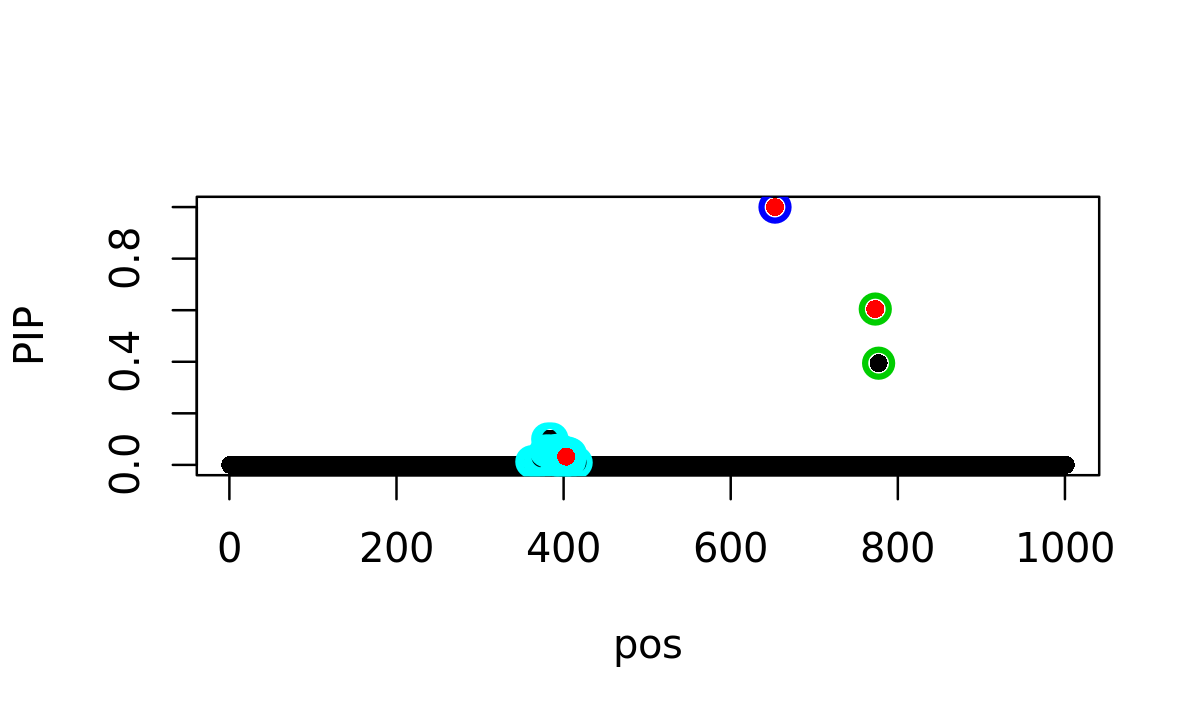
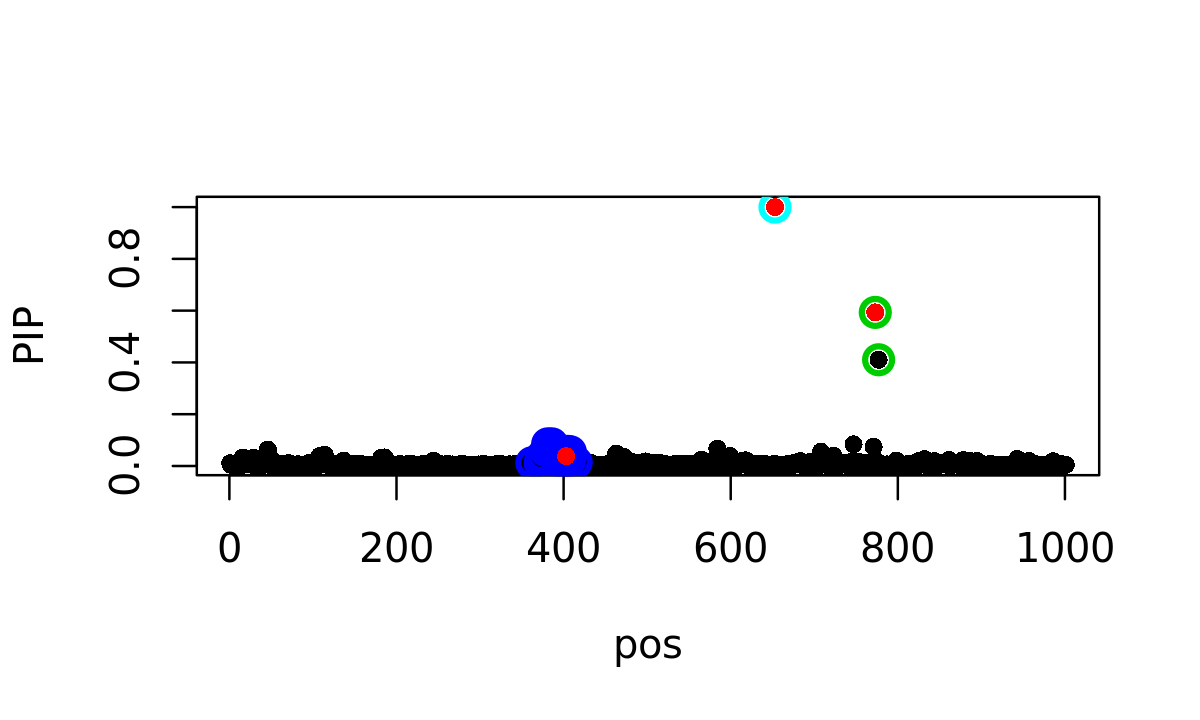
Update description to prior specifications in vignettes

diff --git a/docs/articles/finemapping.html b/docs/articles/finemapping.html
@@ -29,7 +29,7 @@
       </button>
       <span class="navbar-brand">
         <a class="navbar-link" href="../index.html">susieR</a>
-        <span class="label label-default" data-toggle="tooltip" data-placement="bottom" title="Released package">0.7.1</span>
+        <span class="label label-default" data-toggle="tooltip" data-placement="bottom" title="Released package">0.7.1.485</span>
       </span>
     </div>
 
@@ -120,47 +120,58 @@
 <a href="#fine-mapping-with-susier" class="anchor"></a>Fine-mapping with <code>susieR</code>
 </h2>
 <p>For starters, we assume there are at most 10 causal variables, i.e., set <code>L = 10</code>, although SuSiE is robust to the choice of <code>L</code>.</p>
-<p>We set SuSiE prior variance to 0.1, and update residual variance in the variational algorithm that fits SuSiE model. The <code>susieR</code> function call is:</p>
+<p>Notice that by default SuSiE estimates prior effect size from data. For fine-mapping applications, however, we often have some knowledge of SuSiE prior effect size since it is parameterized as percentage of variance explained. Here for this eQTL fine-mapping application we set SuSiE prior variance to 0.1, and update residual variance in the variational algorithm that fits SuSiE model. The <code>susieR</code> function call is:</p>
 <div class="sourceCode" id="cb8"><pre class="sourceCode r"><code class="sourceCode r"><a class="sourceLine" id="cb8-1" data-line-number="1">fitted &lt;-<span class="st"> </span><span class="kw"><a href="../reference/susie.html">susie</a></span>(data<span class="op">$</span>X, data<span class="op">$</span>Y[,<span class="dv">1</span>],</a>
 <a class="sourceLine" id="cb8-2" data-line-number="2">                <span class="dt">L =</span> <span class="dv">10</span>,</a>
 <a class="sourceLine" id="cb8-3" data-line-number="3">                <span class="dt">estimate_residual_variance =</span> <span class="ot">TRUE</span>, </a>
-<a class="sourceLine" id="cb8-4" data-line-number="4">                <span class="dt">scaled_prior_variance =</span> <span class="fl">0.1</span>,</a>
-<a class="sourceLine" id="cb8-5" data-line-number="5">                <span class="dt">verbose =</span> <span class="ot">TRUE</span>)</a>
-<a class="sourceLine" id="cb8-6" data-line-number="6"><span class="co"># [1] "objective:-1380.57545244099"</span></a>
-<a class="sourceLine" id="cb8-7" data-line-number="7"><span class="co"># [1] "objective:-1377.48660916964"</span></a>
-<a class="sourceLine" id="cb8-8" data-line-number="8"><span class="co"># [1] "objective:-1375.85777212489"</span></a>
-<a class="sourceLine" id="cb8-9" data-line-number="9"><span class="co"># [1] "objective:-1375.80892306441"</span></a>
-<a class="sourceLine" id="cb8-10" data-line-number="10"><span class="co"># [1] "objective:-1370.33949333525"</span></a>
-<a class="sourceLine" id="cb8-11" data-line-number="11"><span class="co"># [1] "objective:-1370.19677277143"</span></a>
-<a class="sourceLine" id="cb8-12" data-line-number="12"><span class="co"># [1] "objective:-1370.10919739199"</span></a>
-<a class="sourceLine" id="cb8-13" data-line-number="13"><span class="co"># [1] "objective:-1370.10918017466"</span></a>
-<a class="sourceLine" id="cb8-14" data-line-number="14"><span class="co"># [1] "objective:-1370.10901872279"</span></a>
-<a class="sourceLine" id="cb8-15" data-line-number="15"><span class="co"># [1] "objective:-1370.1090187169"</span></a></code></pre></div>
+<a class="sourceLine" id="cb8-4" data-line-number="4">                <span class="dt">estimate_prior_variance =</span> <span class="ot">FALSE</span>,</a>
+<a class="sourceLine" id="cb8-5" data-line-number="5">                <span class="dt">scaled_prior_variance =</span> <span class="fl">0.1</span>,</a>
+<a class="sourceLine" id="cb8-6" data-line-number="6">                <span class="dt">verbose =</span> <span class="ot">TRUE</span>)</a>
+<a class="sourceLine" id="cb8-7" data-line-number="7"><span class="co"># [1] "objective:-1392.42460921237"</span></a>
+<a class="sourceLine" id="cb8-8" data-line-number="8"><span class="co"># [1] "objective:-1388.98662572569"</span></a>
+<a class="sourceLine" id="cb8-9" data-line-number="9"><span class="co"># [1] "objective:-1387.87893344487"</span></a>
+<a class="sourceLine" id="cb8-10" data-line-number="10"><span class="co"># [1] "objective:-1387.87158194815"</span></a>
+<a class="sourceLine" id="cb8-11" data-line-number="11"><span class="co"># [1] "objective:-1387.73100740437"</span></a>
+<a class="sourceLine" id="cb8-12" data-line-number="12"><span class="co"># [1] "objective:-1387.73099852765"</span></a>
+<a class="sourceLine" id="cb8-13" data-line-number="13"><span class="co"># [1] "objective:-1387.67616609042"</span></a>
+<a class="sourceLine" id="cb8-14" data-line-number="14"><span class="co"># [1] "objective:-1387.67615783405"</span></a>
+<a class="sourceLine" id="cb8-15" data-line-number="15"><span class="co"># [1] "objective:-1386.37718431774"</span></a>
+<a class="sourceLine" id="cb8-16" data-line-number="16"><span class="co"># [1] "objective:-1386.3640270645"</span></a>
+<a class="sourceLine" id="cb8-17" data-line-number="17"><span class="co"># [1] "objective:-1381.99570801801"</span></a>
+<a class="sourceLine" id="cb8-18" data-line-number="18"><span class="co"># [1] "objective:-1381.86807518114"</span></a>
+<a class="sourceLine" id="cb8-19" data-line-number="19"><span class="co"># [1] "objective:-1381.18590761065"</span></a>
+<a class="sourceLine" id="cb8-20" data-line-number="20"><span class="co"># [1] "objective:-1381.18342754333"</span></a>
+<a class="sourceLine" id="cb8-21" data-line-number="21"><span class="co"># [1] "objective:-1381.13344267982"</span></a>
+<a class="sourceLine" id="cb8-22" data-line-number="22"><span class="co"># [1] "objective:-1381.13343270768"</span></a>
+<a class="sourceLine" id="cb8-23" data-line-number="23"><span class="co"># [1] "objective:-1381.13113705137"</span></a>
+<a class="sourceLine" id="cb8-24" data-line-number="24"><span class="co"># [1] "objective:-1381.1311369139"</span></a>
+<a class="sourceLine" id="cb8-25" data-line-number="25"><span class="co"># [1] "objective:-1381.13106293456"</span></a>
+<a class="sourceLine" id="cb8-26" data-line-number="26"><span class="co"># [1] "objective:-1381.13106291271"</span></a></code></pre></div>
 <div id="credible-sets" class="section level3">
 <h3 class="hasAnchor">
 <a href="#credible-sets" class="anchor"></a>Credible sets</h3>
 <p>By default, we output 95% credible set:</p>
 <div class="sourceCode" id="cb9"><pre class="sourceCode r"><code class="sourceCode r"><a class="sourceLine" id="cb9-1" data-line-number="1"><span class="kw">print</span>(fitted<span class="op">$</span>sets)</a>
 <a class="sourceLine" id="cb9-2" data-line-number="2"><span class="co"># $cs</span></a>
-<a class="sourceLine" id="cb9-3" data-line-number="3"><span class="co"># $cs$L2</span></a>
+<a class="sourceLine" id="cb9-3" data-line-number="3"><span class="co"># $cs$L3</span></a>
 <a class="sourceLine" id="cb9-4" data-line-number="4"><span class="co"># [1] 653</span></a>
 <a class="sourceLine" id="cb9-5" data-line-number="5"><span class="co"># </span></a>
 <a class="sourceLine" id="cb9-6" data-line-number="6"><span class="co"># $cs$L1</span></a>
 <a class="sourceLine" id="cb9-7" data-line-number="7"><span class="co"># [1] 773 777</span></a>
 <a class="sourceLine" id="cb9-8" data-line-number="8"><span class="co"># </span></a>
-<a class="sourceLine" id="cb9-9" data-line-number="9"><span class="co"># $cs$L3</span></a>
-<a class="sourceLine" id="cb9-10" data-line-number="10"><span class="co">#  [1] 362 365 372 373 374 379 381 383 384 386 387 388 389 391 392 396 397</span></a>
-<a class="sourceLine" id="cb9-11" data-line-number="11"><span class="co"># [18] 398 399 400 401 403 404 405 407 408 415</span></a>
+<a class="sourceLine" id="cb9-9" data-line-number="9"><span class="co"># $cs$L2</span></a>
+<a class="sourceLine" id="cb9-10" data-line-number="10"><span class="co">#  [1] 362 372 373 374 379 381 383 384 386 387 388 389 391 392 396 397 398</span></a>
+<a class="sourceLine" id="cb9-11" data-line-number="11"><span class="co"># [18] 399 400 401 403 404 405 407 408 415</span></a>
 <a class="sourceLine" id="cb9-12" data-line-number="12"><span class="co"># </span></a>
 <a class="sourceLine" id="cb9-13" data-line-number="13"><span class="co"># </span></a>
 <a class="sourceLine" id="cb9-14" data-line-number="14"><span class="co"># $purity</span></a>
 <a class="sourceLine" id="cb9-15" data-line-number="15"><span class="co">#    min.abs.corr mean.abs.corr median.abs.corr</span></a>
-<a class="sourceLine" id="cb9-16" data-line-number="16"><span class="co"># L2    1.0000000     1.0000000       1.0000000</span></a>
+<a class="sourceLine" id="cb9-16" data-line-number="16"><span class="co"># L3    1.0000000     1.0000000       1.0000000</span></a>
 <a class="sourceLine" id="cb9-17" data-line-number="17"><span class="co"># L1    0.9815726     0.9907863       0.9907863</span></a>
-<a class="sourceLine" id="cb9-18" data-line-number="18"><span class="co"># L3    0.8686309     0.9653503       0.9739578</span></a>
+<a class="sourceLine" id="cb9-18" data-line-number="18"><span class="co"># L2    0.8686309     0.9673674       0.9756251</span></a>
 <a class="sourceLine" id="cb9-19" data-line-number="19"><span class="co"># </span></a>
 <a class="sourceLine" id="cb9-20" data-line-number="20"><span class="co"># $cs_index</span></a>
-<a class="sourceLine" id="cb9-21" data-line-number="21"><span class="co"># [1] 2 1 3</span></a>
+<a class="sourceLine" id="cb9-21" data-line-number="21"><span class="co"># [1] 3 1 2</span></a>
 <a class="sourceLine" id="cb9-22" data-line-number="22"><span class="co"># </span></a>
 <a class="sourceLine" id="cb9-23" data-line-number="23"><span class="co"># $coverage</span></a>
 <a class="sourceLine" id="cb9-24" data-line-number="24"><span class="co"># [1] 0.95</span></a></code></pre></div>
@@ -172,25 +183,25 @@
 <a class="sourceLine" id="cb10-4" data-line-number="4">                     <span class="dt">min_abs_corr =</span> <span class="fl">0.1</span>)</a></code></pre></div>
 <div class="sourceCode" id="cb11"><pre class="sourceCode r"><code class="sourceCode r"><a class="sourceLine" id="cb11-1" data-line-number="1"><span class="kw">print</span>(sets)</a>
 <a class="sourceLine" id="cb11-2" data-line-number="2"><span class="co"># $cs</span></a>
-<a class="sourceLine" id="cb11-3" data-line-number="3"><span class="co"># $cs$L2</span></a>
+<a class="sourceLine" id="cb11-3" data-line-number="3"><span class="co"># $cs$L3</span></a>
 <a class="sourceLine" id="cb11-4" data-line-number="4"><span class="co"># [1] 653</span></a>
 <a class="sourceLine" id="cb11-5" data-line-number="5"><span class="co"># </span></a>
 <a class="sourceLine" id="cb11-6" data-line-number="6"><span class="co"># $cs$L1</span></a>
 <a class="sourceLine" id="cb11-7" data-line-number="7"><span class="co"># [1] 773 777</span></a>
 <a class="sourceLine" id="cb11-8" data-line-number="8"><span class="co"># </span></a>
-<a class="sourceLine" id="cb11-9" data-line-number="9"><span class="co"># $cs$L3</span></a>
-<a class="sourceLine" id="cb11-10" data-line-number="10"><span class="co">#  [1] 373 374 379 381 383 384 386 387 388 389 391 392 396 398 399 400 401</span></a>
-<a class="sourceLine" id="cb11-11" data-line-number="11"><span class="co"># [18] 403 404 405 407 408</span></a>
+<a class="sourceLine" id="cb11-9" data-line-number="9"><span class="co"># $cs$L2</span></a>
+<a class="sourceLine" id="cb11-10" data-line-number="10"><span class="co">#  [1] 373 374 379 381 383 384 386 387 388 389 391 392 396 399 400 401 403</span></a>
+<a class="sourceLine" id="cb11-11" data-line-number="11"><span class="co"># [18] 404 405 407 408</span></a>
 <a class="sourceLine" id="cb11-12" data-line-number="12"><span class="co"># </span></a>
 <a class="sourceLine" id="cb11-13" data-line-number="13"><span class="co"># </span></a>
 <a class="sourceLine" id="cb11-14" data-line-number="14"><span class="co"># $purity</span></a>
 <a class="sourceLine" id="cb11-15" data-line-number="15"><span class="co">#    min.abs.corr mean.abs.corr median.abs.corr</span></a>
-<a class="sourceLine" id="cb11-16" data-line-number="16"><span class="co"># L2    1.0000000     1.0000000       1.0000000</span></a>
+<a class="sourceLine" id="cb11-16" data-line-number="16"><span class="co"># L3    1.0000000     1.0000000       1.0000000</span></a>
 <a class="sourceLine" id="cb11-17" data-line-number="17"><span class="co"># L1    0.9815726     0.9907863       0.9907863</span></a>
-<a class="sourceLine" id="cb11-18" data-line-number="18"><span class="co"># L3    0.9119572     0.9738724       0.9768163</span></a>
+<a class="sourceLine" id="cb11-18" data-line-number="18"><span class="co"># L2    0.9119572     0.9744588       0.9779763</span></a>
 <a class="sourceLine" id="cb11-19" data-line-number="19"><span class="co"># </span></a>
 <a class="sourceLine" id="cb11-20" data-line-number="20"><span class="co"># $cs_index</span></a>
-<a class="sourceLine" id="cb11-21" data-line-number="21"><span class="co"># [1] 2 1 3</span></a>
+<a class="sourceLine" id="cb11-21" data-line-number="21"><span class="co"># [1] 3 1 2</span></a>
 <a class="sourceLine" id="cb11-22" data-line-number="22"><span class="co"># </span></a>
 <a class="sourceLine" id="cb11-23" data-line-number="23"><span class="co"># $coverage</span></a>
 <a class="sourceLine" id="cb11-24" data-line-number="24"><span class="co"># [1] 0.9</span></a></code></pre></div>
@@ -210,34 +221,33 @@
 <a class="sourceLine" id="cb13-2" data-line-number="2">z3 &lt;-<span class="st"> </span><span class="kw">cbind</span>(i,z_scores[i],fitted<span class="op">$</span>pip[i])</a>
 <a class="sourceLine" id="cb13-3" data-line-number="3"><span class="kw">colnames</span>(z3) &lt;-<span class="st"> </span><span class="kw">c</span>(<span class="st">'position'</span>, <span class="st">'z-score'</span>, <span class="st">'PIP'</span>)</a>
 <a class="sourceLine" id="cb13-4" data-line-number="4">z3[<span class="kw">order</span>(z3[,<span class="dv">2</span>], <span class="dt">decreasing =</span> <span class="ot">TRUE</span>),]</a>
-<a class="sourceLine" id="cb13-5" data-line-number="5"><span class="co">#       position  z-score         PIP</span></a>
-<a class="sourceLine" id="cb13-6" data-line-number="6"><span class="co">#  [1,]      396 5.189811 0.056704331</span></a>
-<a class="sourceLine" id="cb13-7" data-line-number="7"><span class="co">#  [2,]      381 5.164794 0.100360242</span></a>
-<a class="sourceLine" id="cb13-8" data-line-number="8"><span class="co">#  [3,]      386 5.164794 0.100360242</span></a>
-<a class="sourceLine" id="cb13-9" data-line-number="9"><span class="co">#  [4,]      379 5.077563 0.054179507</span></a>
-<a class="sourceLine" id="cb13-10" data-line-number="10"><span class="co">#  [5,]      391 5.068388 0.055952118</span></a>
-<a class="sourceLine" id="cb13-11" data-line-number="11"><span class="co">#  [6,]      383 5.057053 0.052896918</span></a>
-<a class="sourceLine" id="cb13-12" data-line-number="12"><span class="co">#  [7,]      384 5.057053 0.052896918</span></a>
-<a class="sourceLine" id="cb13-13" data-line-number="13"><span class="co">#  [8,]      389 5.052519 0.042161265</span></a>
-<a class="sourceLine" id="cb13-14" data-line-number="14"><span class="co">#  [9,]      405 5.039617 0.045761975</span></a>
-<a class="sourceLine" id="cb13-15" data-line-number="15"><span class="co"># [10,]      403 5.035949 0.031992848</span></a>
-<a class="sourceLine" id="cb13-16" data-line-number="16"><span class="co"># [11,]      387 5.013526 0.041041505</span></a>
-<a class="sourceLine" id="cb13-17" data-line-number="17"><span class="co"># [12,]      388 4.997955 0.039650079</span></a>
-<a class="sourceLine" id="cb13-18" data-line-number="18"><span class="co"># [13,]      408 4.994865 0.041551961</span></a>
-<a class="sourceLine" id="cb13-19" data-line-number="19"><span class="co"># [14,]      404 4.954407 0.032013339</span></a>
-<a class="sourceLine" id="cb13-20" data-line-number="20"><span class="co"># [15,]      374 4.948060 0.030571484</span></a>
-<a class="sourceLine" id="cb13-21" data-line-number="21"><span class="co"># [16,]      373 4.934410 0.023577221</span></a>
-<a class="sourceLine" id="cb13-22" data-line-number="22"><span class="co"># [17,]      362 4.894243 0.012145481</span></a>
-<a class="sourceLine" id="cb13-23" data-line-number="23"><span class="co"># [18,]      399 4.860780 0.026454056</span></a>
-<a class="sourceLine" id="cb13-24" data-line-number="24"><span class="co"># [19,]      392 4.856384 0.019741011</span></a>
-<a class="sourceLine" id="cb13-25" data-line-number="25"><span class="co"># [20,]      407 4.849285 0.014699313</span></a>
-<a class="sourceLine" id="cb13-26" data-line-number="26"><span class="co"># [21,]      400 4.827361 0.021659443</span></a>
-<a class="sourceLine" id="cb13-27" data-line-number="27"><span class="co"># [22,]      365 4.782770 0.006263425</span></a>
-<a class="sourceLine" id="cb13-28" data-line-number="28"><span class="co"># [23,]      398 4.751205 0.012907848</span></a>
-<a class="sourceLine" id="cb13-29" data-line-number="29"><span class="co"># [24,]      401 4.723184 0.014858460</span></a>
-<a class="sourceLine" id="cb13-30" data-line-number="30"><span class="co"># [25,]      397 4.716886 0.008690915</span></a>
-<a class="sourceLine" id="cb13-31" data-line-number="31"><span class="co"># [26,]      415 4.663208 0.009003129</span></a>
-<a class="sourceLine" id="cb13-32" data-line-number="32"><span class="co"># [27,]      372 4.581560 0.005886458</span></a></code></pre></div>
+<a class="sourceLine" id="cb13-5" data-line-number="5"><span class="co">#       position  z-score        PIP</span></a>
+<a class="sourceLine" id="cb13-6" data-line-number="6"><span class="co">#  [1,]      396 5.189811 0.06026797</span></a>
+<a class="sourceLine" id="cb13-7" data-line-number="7"><span class="co">#  [2,]      381 5.164794 0.08444210</span></a>
+<a class="sourceLine" id="cb13-8" data-line-number="8"><span class="co">#  [3,]      386 5.164794 0.08444210</span></a>
+<a class="sourceLine" id="cb13-9" data-line-number="9"><span class="co">#  [4,]      379 5.077563 0.05804100</span></a>
+<a class="sourceLine" id="cb13-10" data-line-number="10"><span class="co">#  [5,]      391 5.068388 0.06299894</span></a>
+<a class="sourceLine" id="cb13-11" data-line-number="11"><span class="co">#  [6,]      383 5.057053 0.06048718</span></a>
+<a class="sourceLine" id="cb13-12" data-line-number="12"><span class="co">#  [7,]      384 5.057053 0.06048718</span></a>
+<a class="sourceLine" id="cb13-13" data-line-number="13"><span class="co">#  [8,]      389 5.052519 0.04925977</span></a>
+<a class="sourceLine" id="cb13-14" data-line-number="14"><span class="co">#  [9,]      405 5.039617 0.05629383</span></a>
+<a class="sourceLine" id="cb13-15" data-line-number="15"><span class="co"># [10,]      403 5.035949 0.03808209</span></a>
+<a class="sourceLine" id="cb13-16" data-line-number="16"><span class="co"># [11,]      387 5.013526 0.04831886</span></a>
+<a class="sourceLine" id="cb13-17" data-line-number="17"><span class="co"># [12,]      388 4.997955 0.04696986</span></a>
+<a class="sourceLine" id="cb13-18" data-line-number="18"><span class="co"># [13,]      408 4.994865 0.05477586</span></a>
+<a class="sourceLine" id="cb13-19" data-line-number="19"><span class="co"># [14,]      404 4.954407 0.04024608</span></a>
+<a class="sourceLine" id="cb13-20" data-line-number="20"><span class="co"># [15,]      374 4.948060 0.03589437</span></a>
+<a class="sourceLine" id="cb13-21" data-line-number="21"><span class="co"># [16,]      373 4.934410 0.02832642</span></a>
+<a class="sourceLine" id="cb13-22" data-line-number="22"><span class="co"># [17,]      362 4.894243 0.01244577</span></a>
+<a class="sourceLine" id="cb13-23" data-line-number="23"><span class="co"># [18,]      399 4.860780 0.03073966</span></a>
+<a class="sourceLine" id="cb13-24" data-line-number="24"><span class="co"># [19,]      392 4.856384 0.02490617</span></a>
+<a class="sourceLine" id="cb13-25" data-line-number="25"><span class="co"># [20,]      407 4.849285 0.02139881</span></a>
+<a class="sourceLine" id="cb13-26" data-line-number="26"><span class="co"># [21,]      400 4.827361 0.02610013</span></a>
+<a class="sourceLine" id="cb13-27" data-line-number="27"><span class="co"># [22,]      398 4.751205 0.01761845</span></a>
+<a class="sourceLine" id="cb13-28" data-line-number="28"><span class="co"># [23,]      401 4.723184 0.02014360</span></a>
+<a class="sourceLine" id="cb13-29" data-line-number="29"><span class="co"># [24,]      397 4.716886 0.01240547</span></a>
+<a class="sourceLine" id="cb13-30" data-line-number="30"><span class="co"># [25,]      415 4.663208 0.01437857</span></a>
+<a class="sourceLine" id="cb13-31" data-line-number="31"><span class="co"># [26,]      372 4.581560 0.01032276</span></a></code></pre></div>
 </div>
 <div id="choice-of-priors" class="section level3">
 <h3 class="hasAnchor">
@@ -246,50 +256,60 @@
 <div class="sourceCode" id="cb14"><pre class="sourceCode r"><code class="sourceCode r"><a class="sourceLine" id="cb14-1" data-line-number="1">fitted =<span class="st"> </span><span class="kw"><a href="../reference/susie.html">susie</a></span>(data<span class="op">$</span>X, data<span class="op">$</span>Y[,<span class="dv">1</span>],</a>
 <a class="sourceLine" id="cb14-2" data-line-number="2">               <span class="dt">L =</span> <span class="dv">10</span>,</a>
 <a class="sourceLine" id="cb14-3" data-line-number="3">               <span class="dt">estimate_residual_variance =</span> <span class="ot">TRUE</span>, </a>
-<a class="sourceLine" id="cb14-4" data-line-number="4">               <span class="dt">scaled_prior_variance =</span> <span class="fl">0.2</span>)</a>
-<a class="sourceLine" id="cb14-5" data-line-number="5"><span class="kw"><a href="../reference/susie_plot.html">susie_plot</a></span>(fitted, <span class="dt">y=</span><span class="st">'PIP'</span>, <span class="dt">b=</span>b)</a></code></pre></div>
+<a class="sourceLine" id="cb14-4" data-line-number="4">               <span class="dt">estimate_prior_variance =</span> <span class="ot">FALSE</span>, </a>
+<a class="sourceLine" id="cb14-5" data-line-number="5">               <span class="dt">scaled_prior_variance =</span> <span class="fl">0.2</span>)</a>
+<a class="sourceLine" id="cb14-6" data-line-number="6"><span class="kw"><a href="../reference/susie_plot.html">susie_plot</a></span>(fitted, <span class="dt">y=</span><span class="st">'PIP'</span>, <span class="dt">b=</span>b)</a></code></pre></div>
 <div class="figure" style="text-align: center">
 <img src="finemapping_files/figure-html/unnamed-chunk-14-1.png" alt="&amp;nbsp;" width="600"><p class="caption">
  
 </p>
 </div>
-<p>which largely remains unchanged.</p>
+<p>which largely remains unchanged. We also illustrate below analysis using default prior estimated from data,</p>
+<div class="sourceCode" id="cb15"><pre class="sourceCode r"><code class="sourceCode r"><a class="sourceLine" id="cb15-1" data-line-number="1">fitted =<span class="st"> </span><span class="kw"><a href="../reference/susie.html">susie</a></span>(data<span class="op">$</span>X, data<span class="op">$</span>Y[,<span class="dv">1</span>],</a>
+<a class="sourceLine" id="cb15-2" data-line-number="2">               <span class="dt">L =</span> <span class="dv">10</span>,</a>
+<a class="sourceLine" id="cb15-3" data-line-number="3">               <span class="dt">estimate_residual_variance =</span> <span class="ot">TRUE</span>)</a>
+<a class="sourceLine" id="cb15-4" data-line-number="4"><span class="kw"><a href="../reference/susie_plot.html">susie_plot</a></span>(fitted, <span class="dt">y=</span><span class="st">'PIP'</span>, <span class="dt">b=</span>b)</a></code></pre></div>
+<div class="figure" style="text-align: center">
+<img src="finemapping_files/figure-html/unnamed-chunk-15-1.png" alt="&amp;nbsp;" width="600"><p class="caption">
+ 
+</p>
+</div>
 </div>
 </div>
 <div id="session-information" class="section level2">
 <h2 class="hasAnchor">
 <a href="#session-information" class="anchor"></a>Session information</h2>
 <p>Here are some details about the computing environment, including the versions of R, and the R packages, used to generate these results.</p>
-<div class="sourceCode" id="cb15"><pre class="sourceCode r"><code class="sourceCode r"><a class="sourceLine" id="cb15-1" data-line-number="1"><span class="kw">sessionInfo</span>()</a>
-<a class="sourceLine" id="cb15-2" data-line-number="2"><span class="co"># R version 3.5.1 (2018-07-02)</span></a>
-<a class="sourceLine" id="cb15-3" data-line-number="3"><span class="co"># Platform: x86_64-pc-linux-gnu (64-bit)</span></a>
-<a class="sourceLine" id="cb15-4" data-line-number="4"><span class="co"># Running under: Debian GNU/Linux buster/sid</span></a>
-<a class="sourceLine" id="cb15-5" data-line-number="5"><span class="co"># </span></a>
-<a class="sourceLine" id="cb15-6" data-line-number="6"><span class="co"># Matrix products: default</span></a>
-<a class="sourceLine" id="cb15-7" data-line-number="7"><span class="co"># BLAS: /usr/lib/x86_64-linux-gnu/atlas/libblas.so.3.10.3</span></a>
-<a class="sourceLine" id="cb15-8" data-line-number="8"><span class="co"># LAPACK: /usr/lib/x86_64-linux-gnu/atlas/liblapack.so.3.10.3</span></a>
-<a class="sourceLine" id="cb15-9" data-line-number="9"><span class="co"># </span></a>
-<a class="sourceLine" id="cb15-10" data-line-number="10"><span class="co"># locale:</span></a>
-<a class="sourceLine" id="cb15-11" data-line-number="11"><span class="co"># [1] C</span></a>
-<a class="sourceLine" id="cb15-12" data-line-number="12"><span class="co"># </span></a>
-<a class="sourceLine" id="cb15-13" data-line-number="13"><span class="co"># attached base packages:</span></a>
-<a class="sourceLine" id="cb15-14" data-line-number="14"><span class="co"># [1] stats     graphics  grDevices utils     datasets  methods   base     </span></a>
-<a class="sourceLine" id="cb15-15" data-line-number="15"><span class="co"># </span></a>
-<a class="sourceLine" id="cb15-16" data-line-number="16"><span class="co"># other attached packages:</span></a>
-<a class="sourceLine" id="cb15-17" data-line-number="17"><span class="co"># [1] susieR_0.7.1</span></a>
-<a class="sourceLine" id="cb15-18" data-line-number="18"><span class="co"># </span></a>
-<a class="sourceLine" id="cb15-19" data-line-number="19"><span class="co"># loaded via a namespace (and not attached):</span></a>
-<a class="sourceLine" id="cb15-20" data-line-number="20"><span class="co">#  [1] Rcpp_0.12.19       knitr_1.20         xml2_1.2.0        </span></a>
-<a class="sourceLine" id="cb15-21" data-line-number="21"><span class="co">#  [4] magrittr_1.5       roxygen2_6.1.0     MASS_7.3-51       </span></a>
-<a class="sourceLine" id="cb15-22" data-line-number="22"><span class="co">#  [7] lattice_0.20-35    R6_2.3.0           rlang_0.3.0.1     </span></a>
-<a class="sourceLine" id="cb15-23" data-line-number="23"><span class="co"># [10] highr_0.7          stringr_1.3.1      tools_3.5.1       </span></a>
-<a class="sourceLine" id="cb15-24" data-line-number="24"><span class="co"># [13] grid_3.5.1         matrixStats_0.54.0 htmltools_0.3.6   </span></a>
-<a class="sourceLine" id="cb15-25" data-line-number="25"><span class="co"># [16] commonmark_1.6     yaml_2.2.0         rprojroot_1.3-2   </span></a>
-<a class="sourceLine" id="cb15-26" data-line-number="26"><span class="co"># [19] digest_0.6.18      assertthat_0.2.0   pkgdown_1.1.0     </span></a>
-<a class="sourceLine" id="cb15-27" data-line-number="27"><span class="co"># [22] crayon_1.3.4       Matrix_1.2-14      fs_1.2.6          </span></a>
-<a class="sourceLine" id="cb15-28" data-line-number="28"><span class="co"># [25] memoise_1.1.0      evaluate_0.12      rmarkdown_1.10    </span></a>
-<a class="sourceLine" id="cb15-29" data-line-number="29"><span class="co"># [28] stringi_1.2.4      compiler_3.5.1     desc_1.2.0        </span></a>
-<a class="sourceLine" id="cb15-30" data-line-number="30"><span class="co"># [31] backports_1.1.2</span></a></code></pre></div>
+<div class="sourceCode" id="cb16"><pre class="sourceCode r"><code class="sourceCode r"><a class="sourceLine" id="cb16-1" data-line-number="1"><span class="kw">sessionInfo</span>()</a>
+<a class="sourceLine" id="cb16-2" data-line-number="2"><span class="co"># R version 3.5.1 (2018-07-02)</span></a>
+<a class="sourceLine" id="cb16-3" data-line-number="3"><span class="co"># Platform: x86_64-pc-linux-gnu (64-bit)</span></a>
+<a class="sourceLine" id="cb16-4" data-line-number="4"><span class="co"># Running under: Debian GNU/Linux buster/sid</span></a>
+<a class="sourceLine" id="cb16-5" data-line-number="5"><span class="co"># </span></a>
+<a class="sourceLine" id="cb16-6" data-line-number="6"><span class="co"># Matrix products: default</span></a>
+<a class="sourceLine" id="cb16-7" data-line-number="7"><span class="co"># BLAS: /usr/lib/x86_64-linux-gnu/atlas/libblas.so.3.10.3</span></a>
+<a class="sourceLine" id="cb16-8" data-line-number="8"><span class="co"># LAPACK: /usr/lib/x86_64-linux-gnu/atlas/liblapack.so.3.10.3</span></a>
+<a class="sourceLine" id="cb16-9" data-line-number="9"><span class="co"># </span></a>
+<a class="sourceLine" id="cb16-10" data-line-number="10"><span class="co"># locale:</span></a>
+<a class="sourceLine" id="cb16-11" data-line-number="11"><span class="co"># [1] C</span></a>
+<a class="sourceLine" id="cb16-12" data-line-number="12"><span class="co"># </span></a>
+<a class="sourceLine" id="cb16-13" data-line-number="13"><span class="co"># attached base packages:</span></a>
+<a class="sourceLine" id="cb16-14" data-line-number="14"><span class="co"># [1] stats     graphics  grDevices utils     datasets  methods   base     </span></a>
+<a class="sourceLine" id="cb16-15" data-line-number="15"><span class="co"># </span></a>
+<a class="sourceLine" id="cb16-16" data-line-number="16"><span class="co"># other attached packages:</span></a>
+<a class="sourceLine" id="cb16-17" data-line-number="17"><span class="co"># [1] susieR_0.7.1</span></a>
+<a class="sourceLine" id="cb16-18" data-line-number="18"><span class="co"># </span></a>
+<a class="sourceLine" id="cb16-19" data-line-number="19"><span class="co"># loaded via a namespace (and not attached):</span></a>
+<a class="sourceLine" id="cb16-20" data-line-number="20"><span class="co">#  [1] Rcpp_0.12.19       knitr_1.20         xml2_1.2.0        </span></a>
+<a class="sourceLine" id="cb16-21" data-line-number="21"><span class="co">#  [4] magrittr_1.5       roxygen2_6.1.0     MASS_7.3-51       </span></a>
+<a class="sourceLine" id="cb16-22" data-line-number="22"><span class="co">#  [7] lattice_0.20-35    R6_2.3.0           rlang_0.3.0.1     </span></a>
+<a class="sourceLine" id="cb16-23" data-line-number="23"><span class="co"># [10] highr_0.7          stringr_1.3.1      tools_3.5.1       </span></a>
+<a class="sourceLine" id="cb16-24" data-line-number="24"><span class="co"># [13] grid_3.5.1         matrixStats_0.54.0 htmltools_0.3.6   </span></a>
+<a class="sourceLine" id="cb16-25" data-line-number="25"><span class="co"># [16] commonmark_1.6     yaml_2.2.0         rprojroot_1.3-2   </span></a>
+<a class="sourceLine" id="cb16-26" data-line-number="26"><span class="co"># [19] digest_0.6.18      assertthat_0.2.0   pkgdown_1.1.0     </span></a>
+<a class="sourceLine" id="cb16-27" data-line-number="27"><span class="co"># [22] crayon_1.3.4       Matrix_1.2-14      fs_1.2.6          </span></a>
+<a class="sourceLine" id="cb16-28" data-line-number="28"><span class="co"># [25] memoise_1.1.0      evaluate_0.12      rmarkdown_1.10    </span></a>
+<a class="sourceLine" id="cb16-29" data-line-number="29"><span class="co"># [28] stringi_1.2.4      compiler_3.5.1     desc_1.2.0        </span></a>
+<a class="sourceLine" id="cb16-30" data-line-number="30"><span class="co"># [31] backports_1.1.2</span></a></code></pre></div>
 </div>
   </div>
 

diff --git a/docs/articles/index.html b/docs/articles/index.html
@@ -58,7 +58,7 @@
       </button>
       <span class="navbar-brand">
         <a class="navbar-link" href="../index.html">susieR</a>
-        <span class="label label-default" data-toggle="tooltip" data-placement="bottom" title="Released package">0.7.1.0</span>
+        <span class="label label-default" data-toggle="tooltip" data-placement="bottom" title="Released package">0.7.1.485</span>
       </span>
     </div>
 

diff --git a/docs/reference/index.html b/docs/reference/index.html
@@ -58,7 +58,7 @@
       </button>
       <span class="navbar-brand">
         <a class="navbar-link" href="../index.html">susieR</a>
-        <span class="label label-default" data-toggle="tooltip" data-placement="bottom" title="Released package">0.7.1.0</span>
+        <span class="label label-default" data-toggle="tooltip" data-placement="bottom" title="Released package">0.7.1.485</span>
       </span>
     </div>
 

diff --git a/docs/articles/finemapping_summary_statistics.html b/docs/articles/finemapping_summary_statistics.html
@@ -29,7 +29,7 @@
       </button>
       <span class="navbar-brand">
         <a class="navbar-link" href="../index.html">susieR</a>
-        <span class="label label-default" data-toggle="tooltip" data-placement="bottom" title="Released package">0.7.1</span>
+        <span class="label label-default" data-toggle="tooltip" data-placement="bottom" title="Released package">0.7.1.485</span>
       </span>
     </div>
 

diff --git a/docs/LICENSE-text.html b/docs/LICENSE-text.html
@@ -58,7 +58,7 @@
       </button>
       <span class="navbar-brand">
         <a class="navbar-link" href="index.html">susieR</a>
-        <span class="label label-default" data-toggle="tooltip" data-placement="bottom" title="Released package">0.7.1.0</span>
+        <span class="label label-default" data-toggle="tooltip" data-placement="bottom" title="Released package">0.7.1.485</span>
       </span>
     </div>
 

diff --git a/docs/authors.html b/docs/authors.html
@@ -58,7 +58,7 @@
       </button>
       <span class="navbar-brand">
         <a class="navbar-link" href="index.html">susieR</a>
-        <span class="label label-default" data-toggle="tooltip" data-placement="bottom" title="Released package">0.7.1.0</span>
+        <span class="label label-default" data-toggle="tooltip" data-placement="bottom" title="Released package">0.7.1.485</span>
       </span>
     </div>
 

diff --git a/docs/index.html b/docs/index.html
@@ -35,7 +35,7 @@
       </button>
       <span class="navbar-brand">
         <a class="navbar-link" href="index.html">susieR</a>
-        <span class="label label-default" data-toggle="tooltip" data-placement="bottom" title="Released package">0.7.1.0</span>
+        <span class="label label-default" data-toggle="tooltip" data-placement="bottom" title="Released package">0.7.1.485</span>
       </span>
     </div>
 
